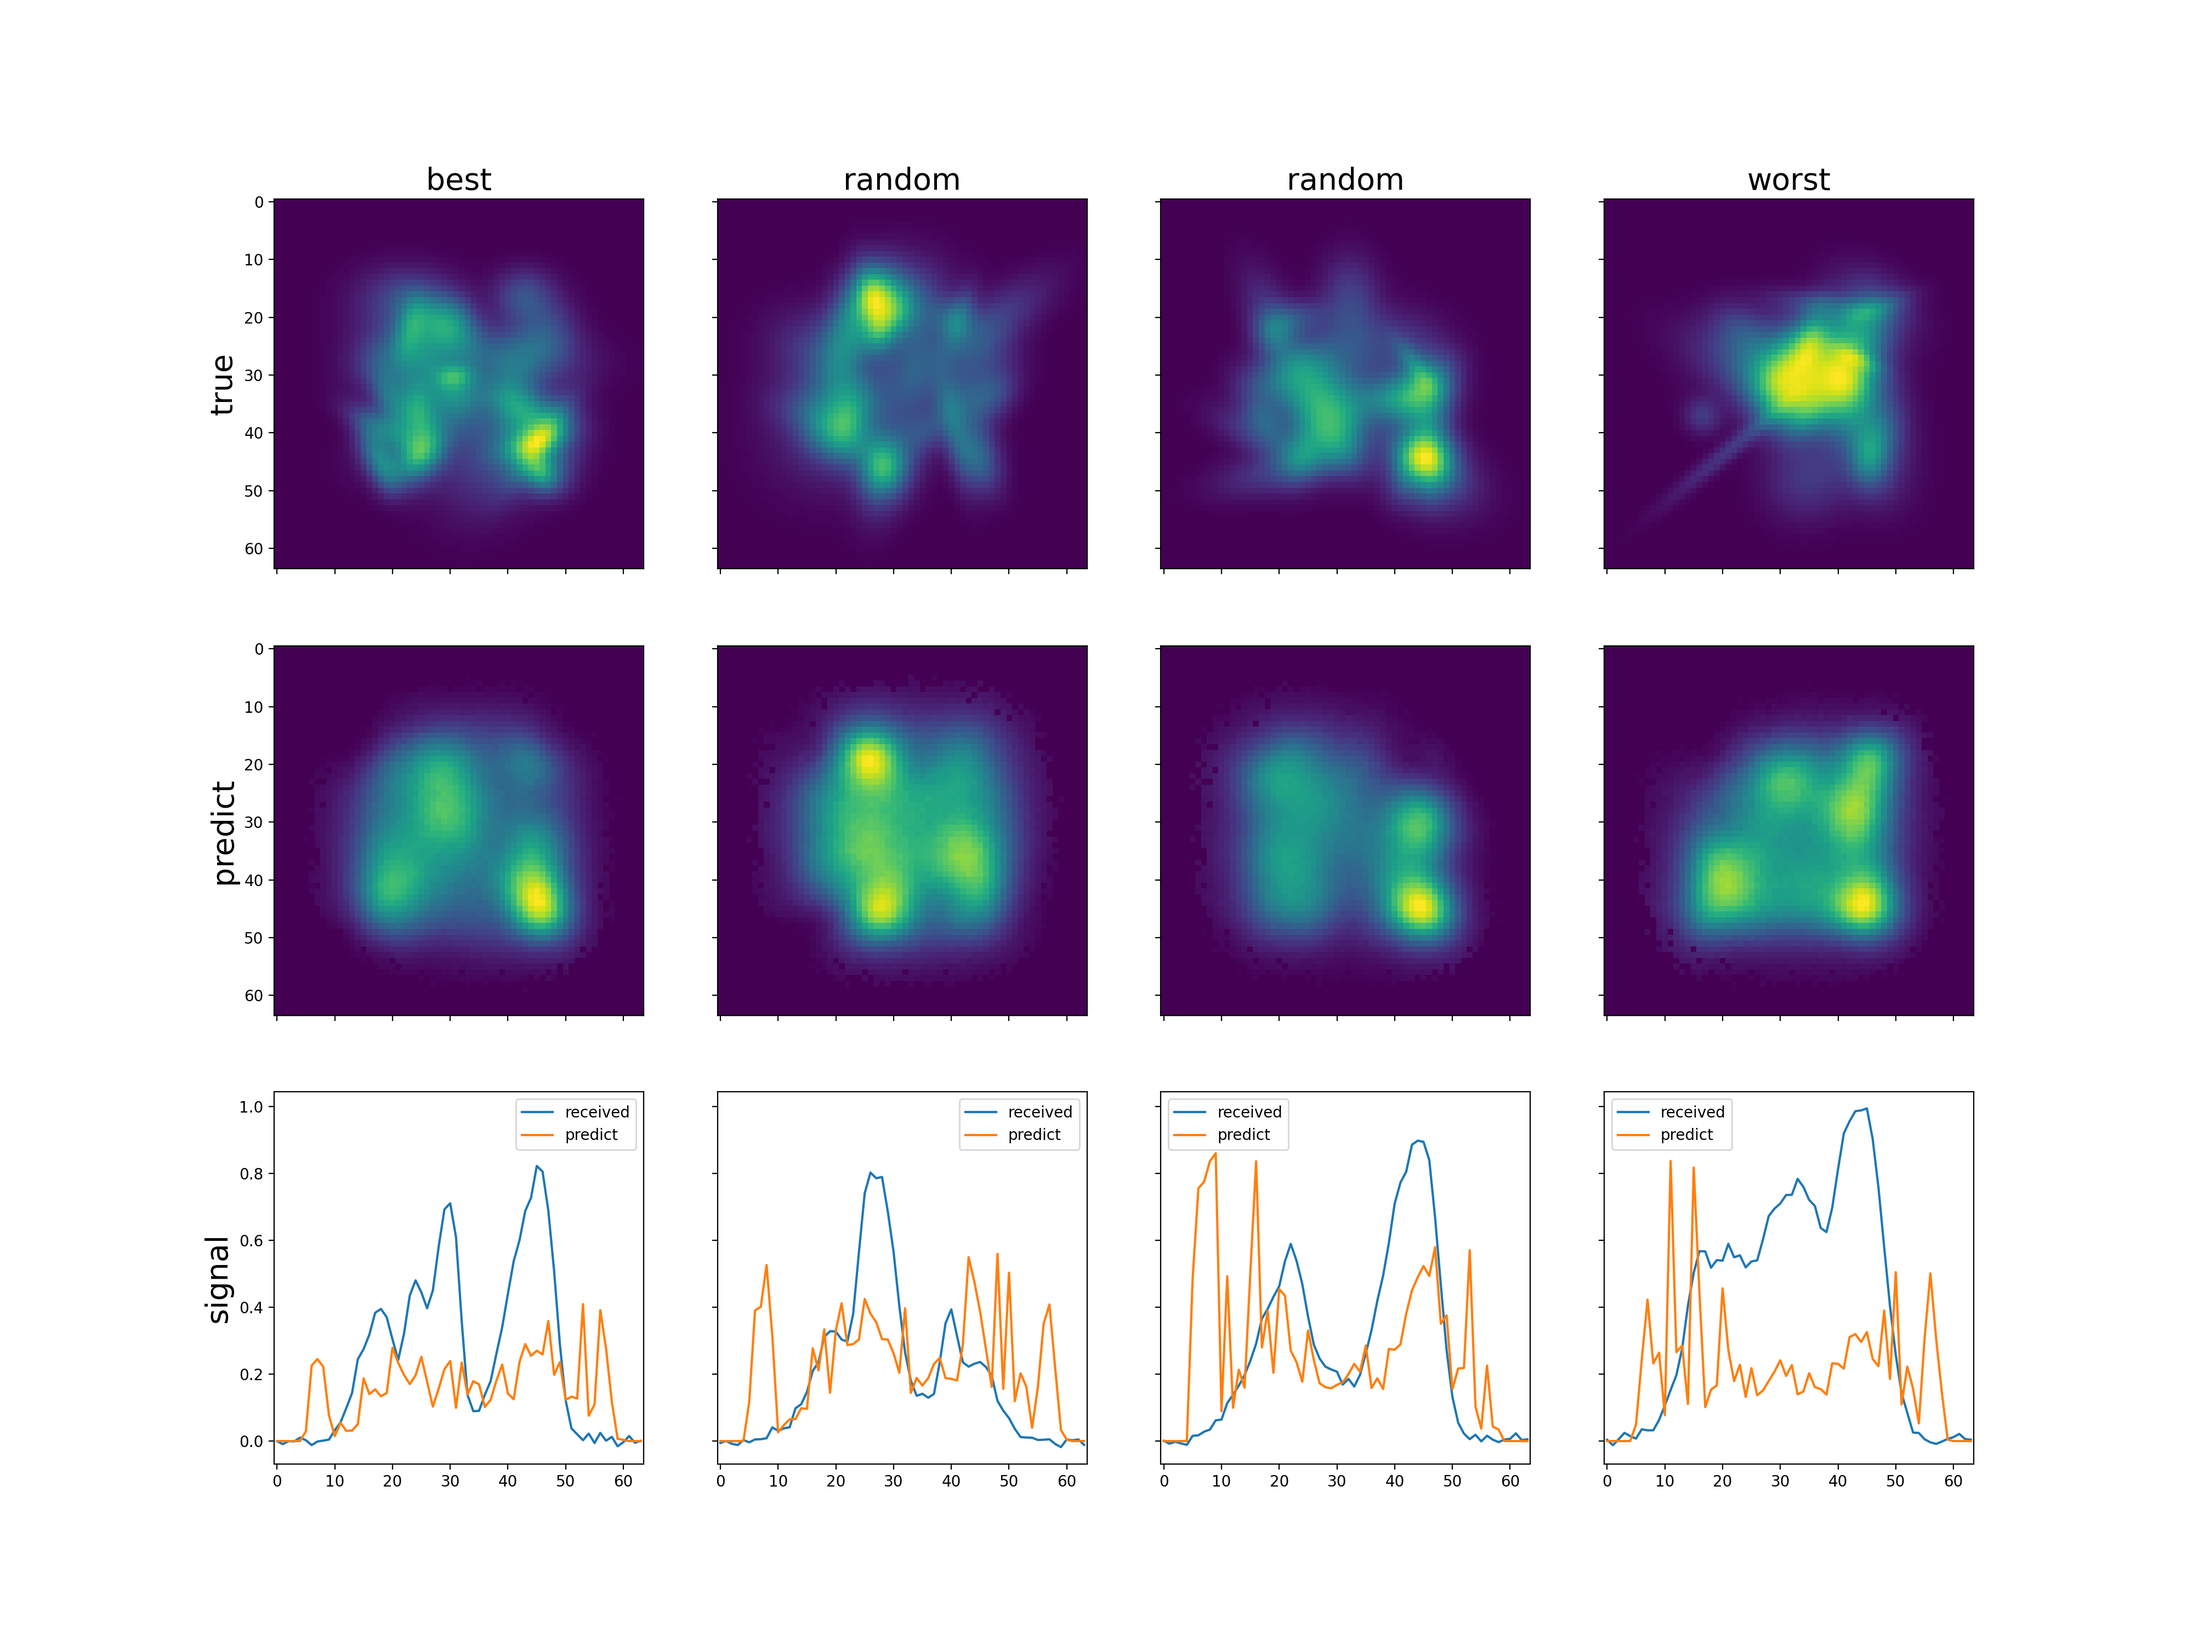
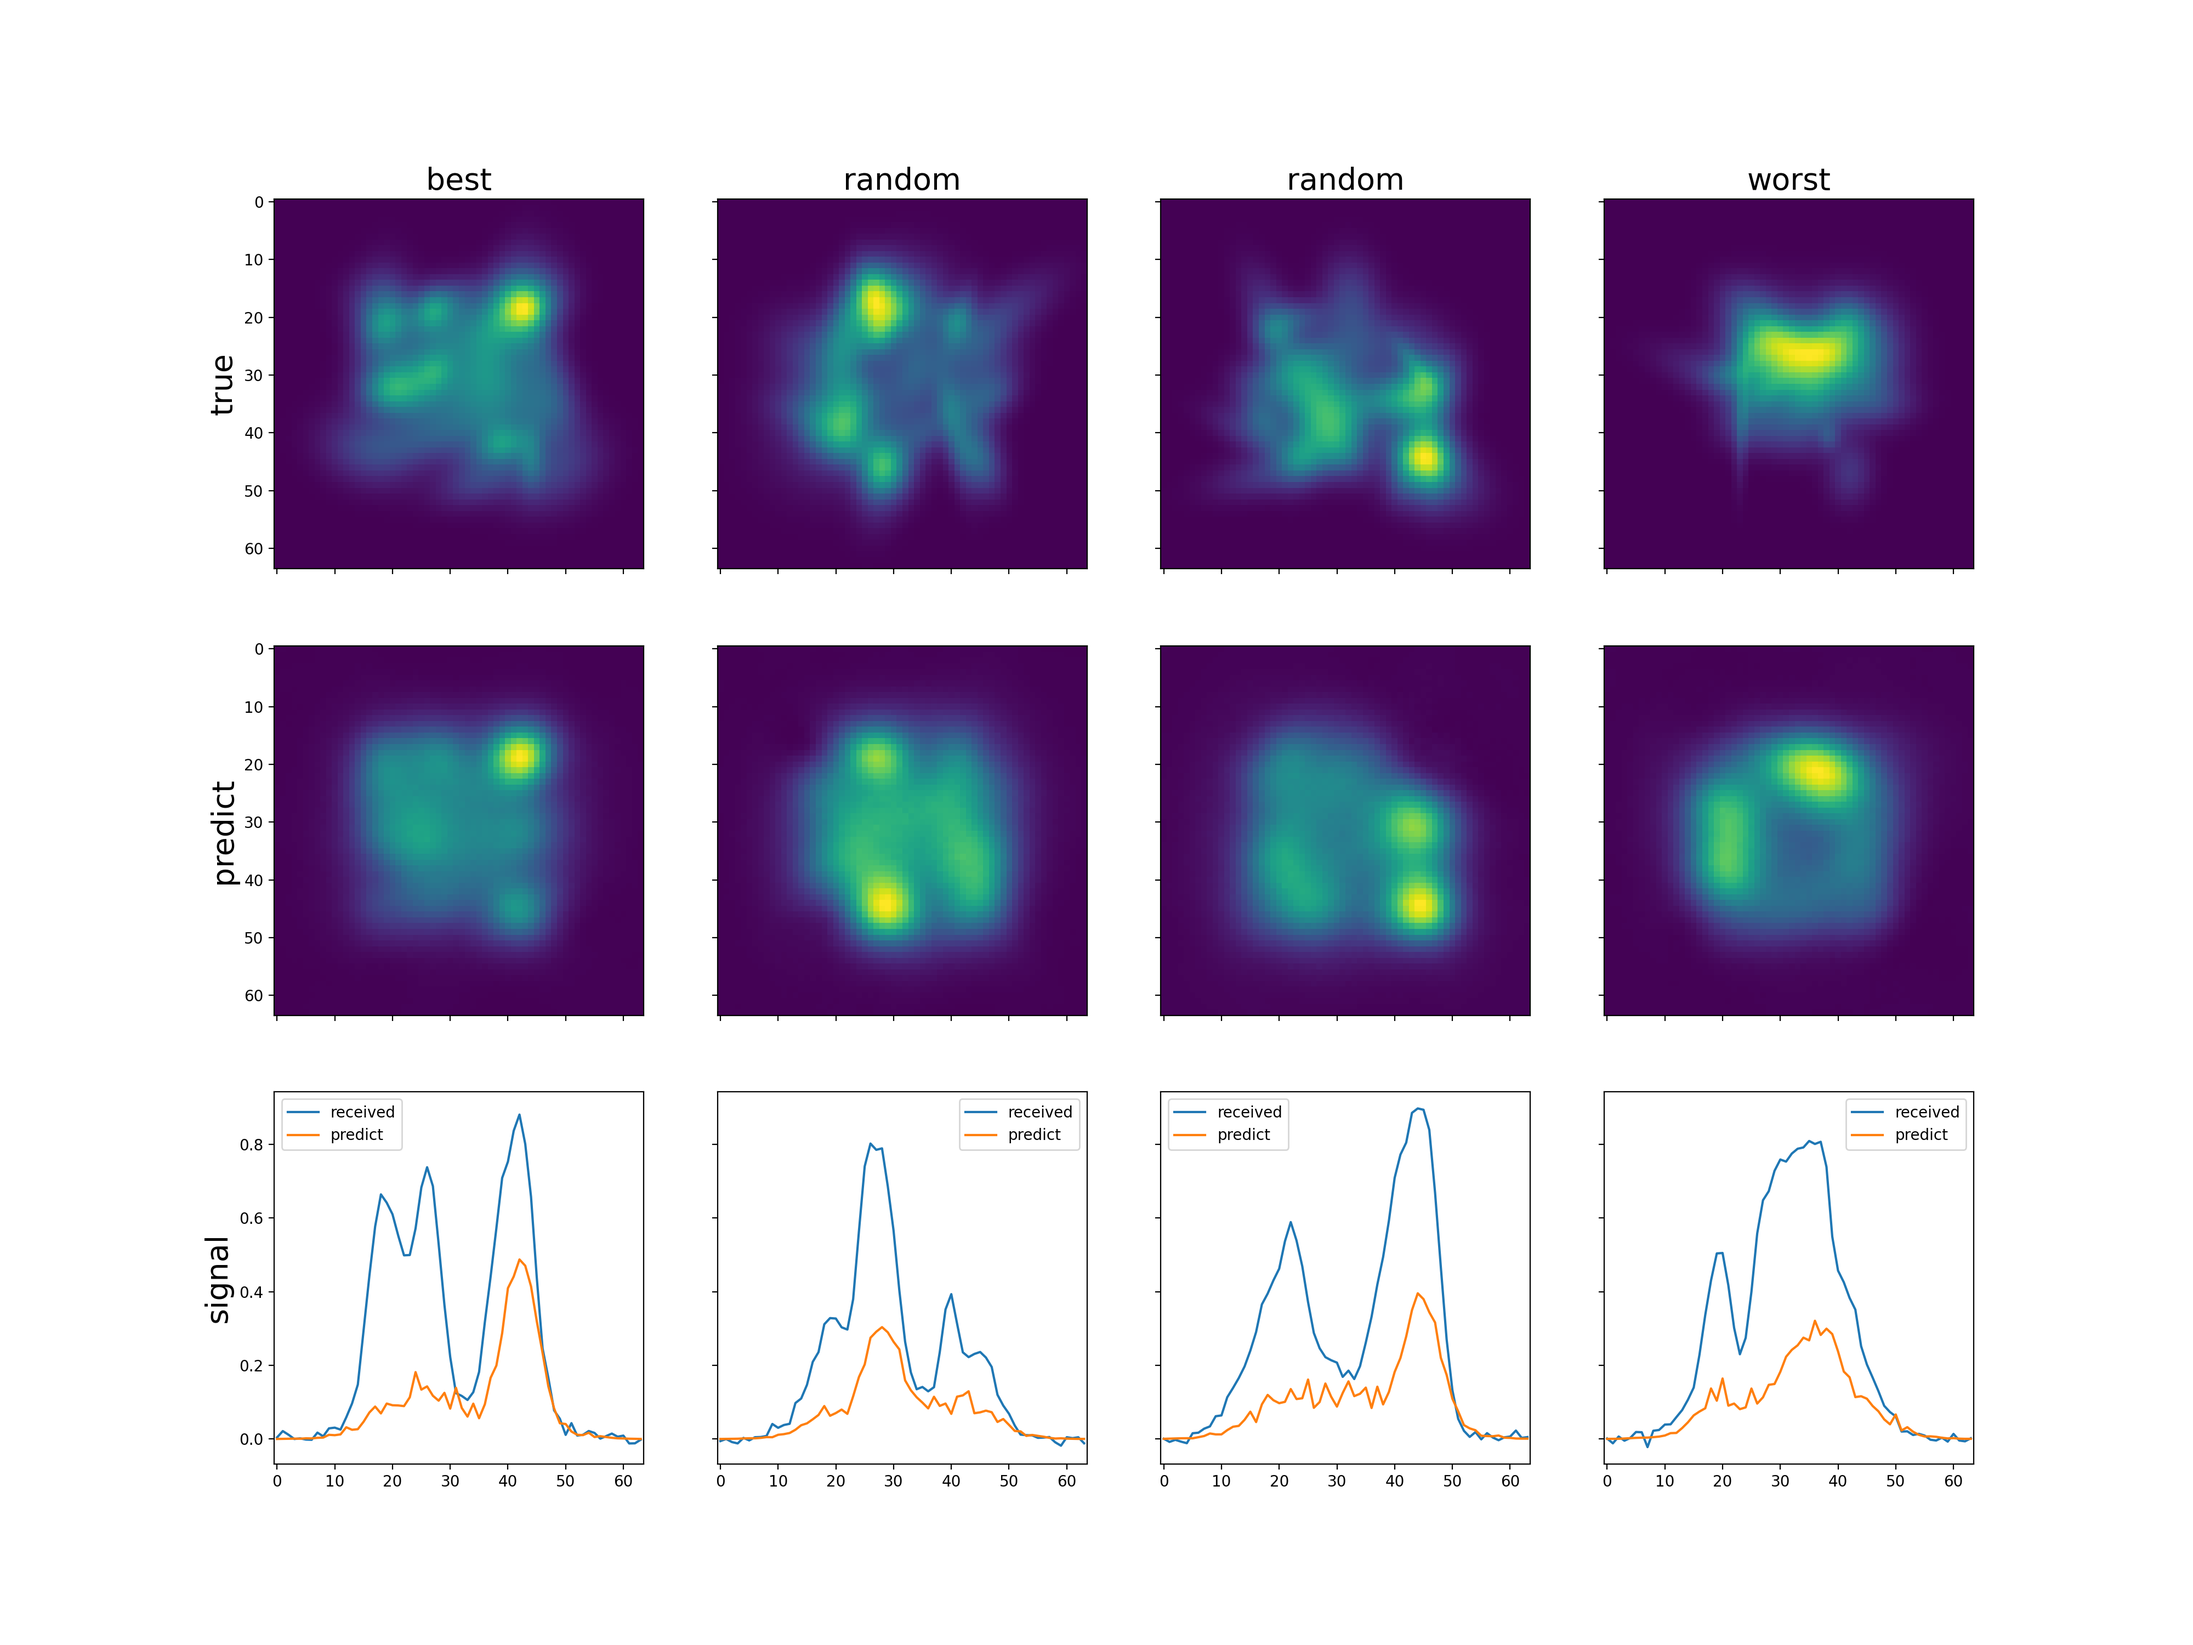
same as best without activation in the end

diff --git a/dvc_plots/index.html b/dvc_plots/index.html
@@ -22,68 +22,173 @@
         "filename": "reports/learning_curve.csv",
         "rev": "workspace",
         "step": 0,
+        "test_loss": "0.23149331799149514",
+        "train_loss": "0.24252057059937054"
+    },
+    {
+        "filename": "reports/learning_curve.csv",
+        "rev": "workspace",
+        "step": 1,
+        "test_loss": "0.21682263094186782",
+        "train_loss": "0.22074929566846954"
+    },
+    {
+        "filename": "reports/learning_curve.csv",
+        "rev": "workspace",
+        "step": 2,
+        "test_loss": "0.21287309649586678",
+        "train_loss": "0.21487228267888228"
+    },
+    {
+        "filename": "reports/learning_curve.csv",
+        "rev": "workspace",
+        "step": 3,
+        "test_loss": "0.2104618386477232",
+        "train_loss": "0.2110318397598134"
+    },
+    {
+        "filename": "reports/learning_curve.csv",
+        "rev": "workspace",
+        "step": 4,
+        "test_loss": "0.209076359719038",
+        "train_loss": "0.20796417510178353"
+    },
+    {
+        "filename": "reports/learning_curve.csv",
+        "rev": "workspace",
+        "step": 5,
+        "test_loss": "0.20822078353166582",
+        "train_loss": "0.2053701833387216"
+    },
+    {
+        "filename": "reports/learning_curve.csv",
+        "rev": "workspace",
+        "step": 6,
+        "test_loss": "0.20771404089033604",
+        "train_loss": "0.20306191802024842"
+    },
+    {
+        "filename": "reports/learning_curve.csv",
+        "rev": "workspace",
+        "step": 7,
+        "test_loss": "0.20751594042778015",
+        "train_loss": "0.2009457196874751"
+    },
+    {
+        "filename": "reports/learning_curve.csv",
+        "rev": "workspace",
+        "step": 8,
+        "test_loss": "0.20769414994120597",
+        "train_loss": "0.19894721223248377"
+    },
+    {
+        "filename": "reports/learning_curve.csv",
+        "rev": "workspace",
+        "step": 9,
+        "test_loss": "0.2080470857769251",
+        "train_loss": "0.19706834500531356"
+    },
+    {
+        "filename": "reports/learning_curve.csv",
+        "rev": "workspace",
+        "step": 10,
+        "test_loss": "0.20875018662214279",
+        "train_loss": "0.19527451326284143"
+    },
+    {
+        "filename": "reports/learning_curve.csv",
+        "rev": "workspace",
+        "step": 11,
+        "test_loss": "0.20938788324594498",
+        "train_loss": "0.19352589137521056"
+    },
+    {
+        "filename": "reports/learning_curve.csv",
+        "rev": "workspace",
+        "step": 12,
+        "test_loss": "0.21039460936188698",
+        "train_loss": "0.19182122966812717"
+    },
+    {
+        "filename": "reports/learning_curve.csv",
+        "rev": "workspace",
+        "step": 13,
+        "test_loss": "0.2113719708174467",
+        "train_loss": "0.19010545528266165"
+    },
+    {
+        "filename": "reports/learning_curve.csv",
+        "rev": "workspace",
+        "step": 14,
+        "test_loss": "0.2125582264214754",
+        "train_loss": "0.18840617873602444"
+    },
+    {
+        "filename": "reports/learning_curve.csv",
+        "rev": "140e9b",
+        "step": 0,
         "test_loss": "0.2621103532761335",
         "train_loss": "0.32980576982266374"
     },
     {
         "filename": "reports/learning_curve.csv",
-        "rev": "workspace",
+        "rev": "140e9b",
         "step": 1,
         "test_loss": "0.22339728491008282",
         "train_loss": "0.23688885054323408"
     },
     {
         "filename": "reports/learning_curve.csv",
-        "rev": "workspace",
+        "rev": "140e9b",
         "step": 2,
         "test_loss": "0.21659136661887168",
         "train_loss": "0.22047359896865157"
     },
     {
         "filename": "reports/learning_curve.csv",
-        "rev": "workspace",
+        "rev": "140e9b",
         "step": 3,
         "test_loss": "0.21435306760668754",
         "train_loss": "0.21515232273605134"
     },
     {
         "filename": "reports/learning_curve.csv",
-        "rev": "workspace",
+        "rev": "140e9b",
         "step": 4,
         "test_loss": "0.21127900134027006",
         "train_loss": "0.21086062111788326"
     },
     {
         "filename": "reports/learning_curve.csv",
-        "rev": "workspace",
+        "rev": "140e9b",
         "step": 5,
         "test_loss": "0.21039364013075829",
         "train_loss": "0.20730411417120032"
     },
     {
         "filename": "reports/learning_curve.csv",
-        "rev": "workspace",
+        "rev": "140e9b",
         "step": 6,
         "test_loss": "0.2083345621675253",
         "train_loss": "0.20393871875438424"
     },
     {
         "filename": "reports/learning_curve.csv",
-        "rev": "workspace",
+        "rev": "140e9b",
         "step": 7,
         "test_loss": "0.20837613715231418",
         "train_loss": "0.20110572372542487"
     },
     {
         "filename": "reports/learning_curve.csv",
-        "rev": "workspace",
+        "rev": "140e9b",
         "step": 8,
         "test_loss": "0.20859624238312244",
         "train_loss": "0.19902377942535612"
     },
     {
         "filename": "reports/learning_curve.csv",
-        "rev": "workspace",
+        "rev": "140e9b",
         "step": 9,
         "test_loss": "0.208831278398633",
         "train_loss": "0.19705334088537427"

diff --git a/dvc_model_learning.py b/dvc_model_learning.py
@@ -81,7 +81,7 @@ model_name = tr['model_name']
 model = eval(
     f"tsl.{model_name}(next(iter(train_dataloader))[0].shape[1:], next(iter(train_dataloader))[1].shape[1:]).to(device)"
 )
-summary(model, next(iter(train_dataloader))[0].shape[1:], device=device)
+# summary(model, next(iter(train_dataloader))[0].shape[1:], device=device)
 # print(model)
 optim = torch.optim.Adam(model.parameters(), lr=tr['learning_rate'])
 loss_fn = torch.nn.MSELoss()

diff --git a/torch_sensor_lib/nets.py b/torch_sensor_lib/nets.py
@@ -59,7 +59,7 @@ class TorchSensorNN5S_norm_deep(nn.Module):
             nn.Linear(15*13, 30*30),
             nn.ReLU(),
             nn.Linear(30*30, output_shape[-1]*output_shape[-2]),
-            nn.ReLU()
+            # nn.ReLU()
         )
 
     def forward(self, x):

diff --git a/reports/report.md b/reports/report.md
@@ -34,7 +34,6 @@ TorchSensorNN5S_norm_deep(
     (2): Linear(in_features=195, out_features=900, bias=True)
     (3): ReLU()
     (4): Linear(in_features=900, out_features=4096, bias=True)
-    (5): ReLU()
   )
 )
 
